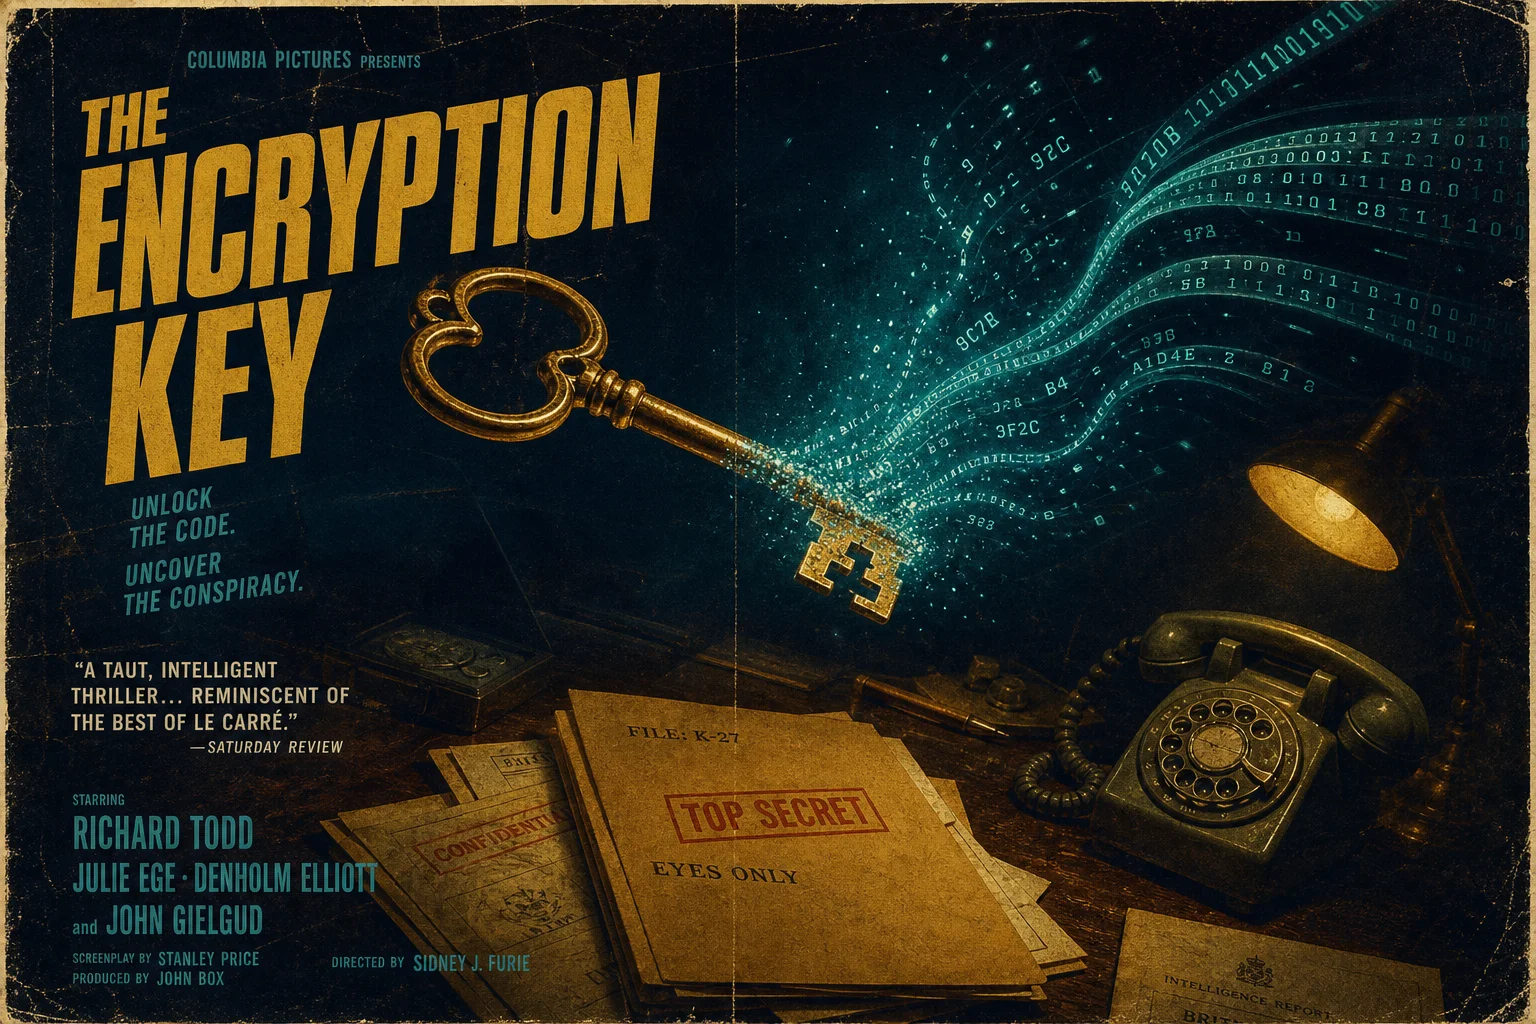
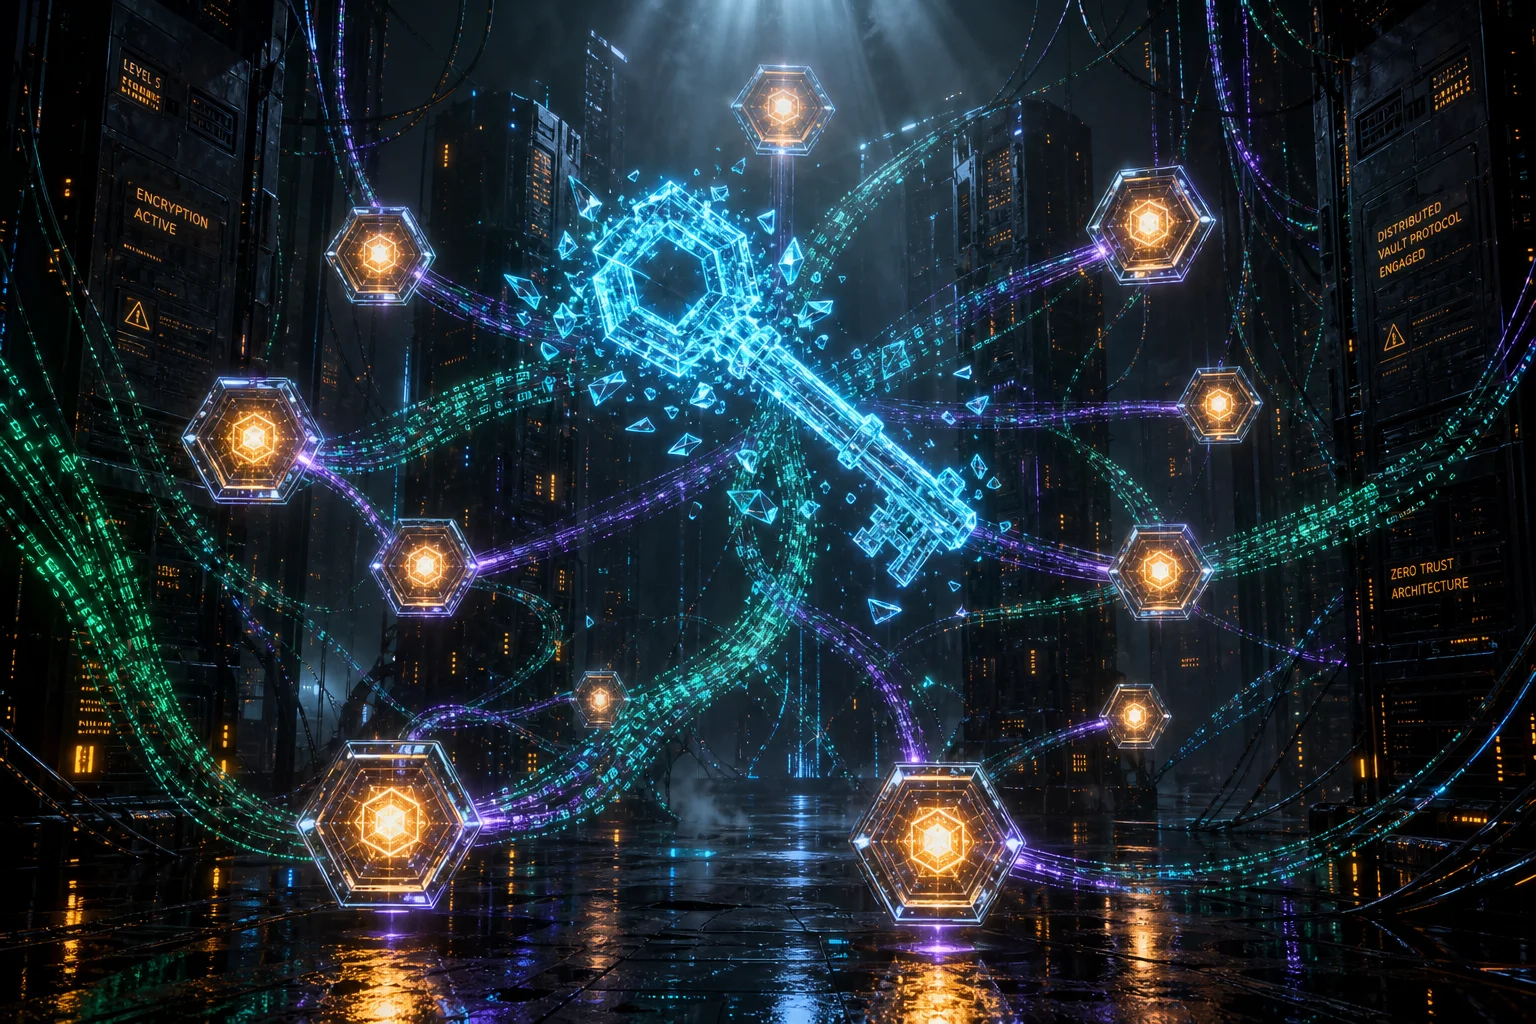
Commit from CI 08_24_2026

diff --git a/blog/2026/08/harden-your-developer-setup-with-age-and-direnv.html b/blog/2026/08/harden-your-developer-setup-with-age-and-direnv.html
@@ -343,7 +343,7 @@ EOF
 </code></pre>
 <p>Use the helper script <code>editenv</code> to comfortably edit the encrypted environment.</p>
 <h2>Next up</h2>
-<p>integration into Github actions, Yubikey and SSH</p>
+<p>integration into <a href="/blog/2026/08/using-age-in-github-actions.html">Github actions</a>, Yubikey and SSH</p>
 <p>As usual YMMV</p></div>
 					<hr />
 					<p>
